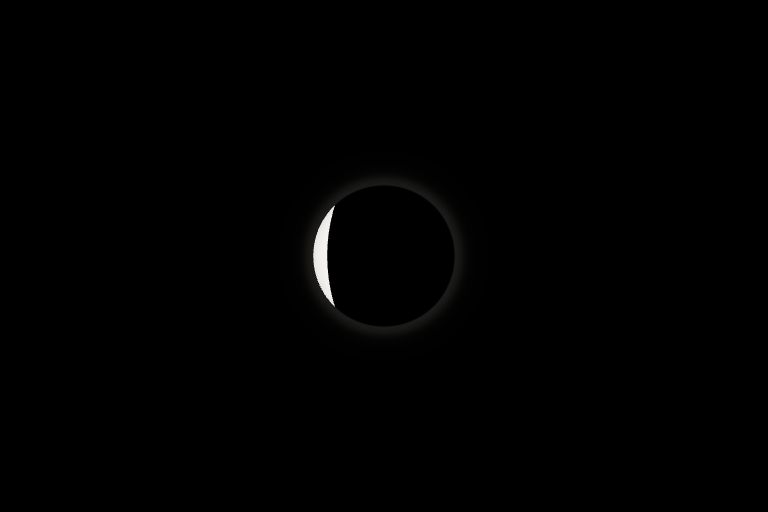
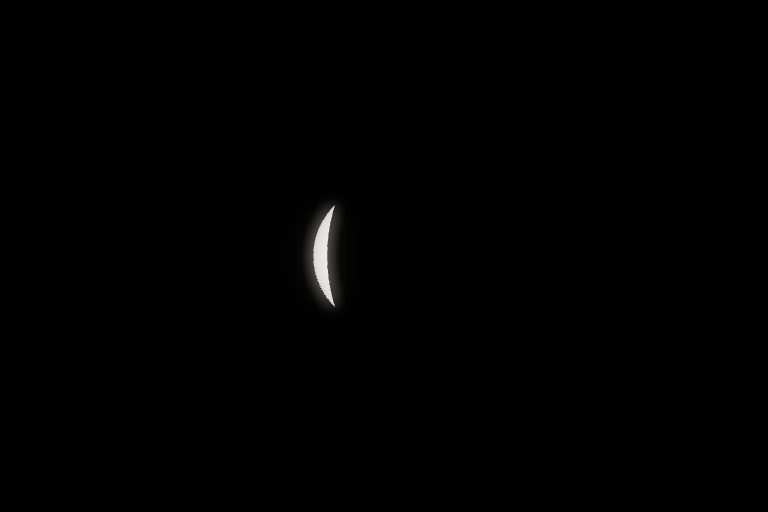
Preserve spatial solar occultation in glare and reveal close-up limb darkening

diff --git a/packages/three/src/SunGlareEffect.ts b/packages/three/src/SunGlareEffect.ts
@@ -2,13 +2,17 @@ import * as THREE from 'three';
 import type { SunVisual } from './SunVisual.js';
 import { isMesh, isLine, isPoints, isSprite } from './internal/three-typeguards.js';
 
-/** One solar-only HDR/depth pass and a bounded analytic two-scale optical halo.
+/** One solar-only HDR/depth pass and a bounded two-scale optical halo.
  * Source sampling happens after opaque occlusion and atmospheric transmission.
  * No scene overlay, star point, or generic emissive object can enter this pass.
  */
 export class SunGlareEffect {
   private readonly target: THREE.WebGLRenderTarget;
   private readonly signalTarget = new THREE.WebGLRenderTarget(1, 1, { type: THREE.HalfFloatType, depthBuffer: false });
+  private readonly blurTargets = Array.from({ length: 3 }, () =>
+    new THREE.WebGLRenderTarget(1, 1, { type: THREE.HalfFloatType, depthBuffer: false }));
+  private readonly blurScene = new THREE.Scene();
+  private readonly blurQuad: THREE.Mesh<THREE.PlaneGeometry, THREE.ShaderMaterial>;
   private readonly dark = new THREE.MeshBasicMaterial({ color: 0 });
   private readonly scene = new THREE.Scene();
   private readonly camera = new THREE.OrthographicCamera(-1, 1, 1, -1, 0, 1);
@@ -18,15 +22,37 @@ export class SunGlareEffect {
 
   constructor(private readonly renderer: THREE.WebGLRenderer) {
     this.target = new THREE.WebGLRenderTarget(1, 1, { type: THREE.HalfFloatType });
+    this.blurQuad = new THREE.Mesh(new THREE.PlaneGeometry(2, 2), new THREE.ShaderMaterial({
+      uniforms: { source: { value: this.target.texture }, stepUV: { value: new THREE.Vector2() } },
+      vertexShader: `varying vec2 uvScreen;
+        void main() { uvScreen = uv; gl_Position = vec4(position.xy, 0.0, 1.0); }`,
+      fragmentShader: `uniform sampler2D source; uniform vec2 stepUV; varying vec2 uvScreen;
+        void main() {
+          vec3 signal = vec3(0.0); float total = 0.0;
+          for (int i = -4; i <= 4; i++) {
+            float offset = float(i) * 0.5;
+            float weight = exp(-0.5 * offset * offset);
+            vec2 sampleUV = uvScreen + stepUV * offset;
+            if (all(greaterThanEqual(sampleUV, vec2(0.0))) && all(lessThanEqual(sampleUV, vec2(1.0))))
+              signal += texture2D(source, sampleUV).rgb * weight;
+            total += weight;
+          }
+          gl_FragColor = vec4(signal / total, 1.0);
+        }`,
+      depthTest: false, depthWrite: false, toneMapped: false,
+    }));
+    this.blurQuad.frustumCulled = false;
+    this.blurScene.add(this.blurQuad);
     this.quad = new THREE.Mesh(new THREE.PlaneGeometry(2, 2), new THREE.ShaderMaterial({
       uniforms: {
         source: { value: this.target.texture },
         resolveSignal: { value: false },
+        pointSignal: { value: this.signalTarget.texture },
+        compactTex: { value: this.blurTargets[1].texture },
+        tailTex: { value: this.blurTargets[2].texture },
         sourceCenter: { value: new THREE.Vector2() },
         sourceRadius: { value: new THREE.Vector2() },
-        diskRadius: { value: 1 },
         haloRadius: { value: 1 },
-        compactSigma: { value: 2 },
         unresolved: { value: 0 },
         strength: { value: 1 },
         quadCenter: { value: new THREE.Vector2() },
@@ -43,10 +69,11 @@ export class SunGlareEffect {
         }
       `,
       fragmentShader: /* glsl */ `
-        uniform sampler2D source;
+        uniform sampler2D source, pointSignal, compactTex, tailTex;
         uniform bool resolveSignal;
+        uniform vec2 quadSize;
         uniform vec2 sourceCenter, sourceRadius;
-        uniform float diskRadius, haloRadius, compactSigma, unresolved, strength;
+        uniform float haloRadius, unresolved, strength;
         varying vec2 p;
         void main() {
           // A deterministic equal-area disk quadrature. Hidden portions of the
@@ -63,17 +90,16 @@ export class SunGlareEffect {
             gl_FragColor = vec4(signal, 1.0);
             return;
           }
-          // The disk reduction is performed once per Sun into a 1x1 HDR target,
-          // rather than repeating 32 source samples at every halo fragment.
-          signal = texture2D(source, vec2(0.5)).rgb;
+          // Preserve the spatial occultation/transmission mask in both scales.
+          // Averaging a half-visible disk into one scalar creates a false full ring.
+          vec2 screenUV = sourceCenter + p * quadSize * 0.5;
+          vec3 raw = texture2D(source, screenUV).rgb;
+          float outsideSource = 1.0 - smoothstep(0.001, 0.1, max(raw.r, max(raw.g, raw.b)));
+          vec3 glare = (0.07 * texture2D(compactTex, screenUV).rgb +
+            0.007 * texture2D(tailTex, screenUV).rgb) * outsideSource * strength;
           float radius = length(p) * haloRadius;
-          float outside = max(0.0, radius - diskRadius);
-          float compact = exp(-0.5 * pow(outside / compactSigma, 2.0));
-          float tail = exp(-0.5 * pow(outside / (compactSigma * 3.0), 2.0));
-          float exterior = smoothstep(max(0.0, diskRadius - 1.0), diskRadius + 1.0, radius);
-          float point = unresolved * exp(-0.5 * radius * radius / 1.0);
-          vec3 glare = signal * (0.085 * compact + 0.008 * tail) * exterior * strength;
-          glare += signal * point;
+          float point = unresolved * exp(-0.5 * radius * radius);
+          glare += texture2D(pointSignal, vec2(0.5)).rgb * point;
           gl_FragColor = vec4(glare, 1.0);
           #include <colorspace_fragment>
         }
@@ -100,6 +126,10 @@ export class SunGlareEffect {
     if (visible.length === 0) return;
     if (this.target.width !== this.size.x || this.target.height !== this.size.y)
       this.target.setSize(this.size.x, this.size.y);
+    for (const target of this.blurTargets) {
+      const width = Math.ceil(this.size.x / 2), height = Math.ceil(this.size.y / 2);
+      if (target.width !== width || target.height !== height) target.setSize(width, height);
+    }
     const savedTarget = this.renderer.getRenderTarget();
     const savedClear = this.renderer.getClearColor(new THREE.Color());
     const savedAlpha = this.renderer.getClearAlpha();
@@ -193,18 +223,49 @@ export class SunGlareEffect {
         u.sourceRadius.value.set(sourceRadius / this.size.x, sourceRadius / this.size.y);
         u.quadCenter.value.set(this.projected.x, this.projected.y);
         u.quadSize.value.set(halo * 2 / this.size.x, halo * 2 / this.size.y);
-        u.diskRadius.value = disk;
         u.haloRadius.value = halo;
-        u.compactSigma.value = sigma;
         u.unresolved.value = 1 - visual.uniforms.resolvedWeight.value;
-        u.resolveSignal.value = true;
-        u.source.value = this.target.texture;
         this.renderer.setClearColor(0, 0);
-        this.renderer.setRenderTarget(this.signalTarget);
-        this.renderer.clear();
-        this.renderer.render(this.scene, this.camera);
-        u.resolveSignal.value = false;
-        u.source.value = this.signalTarget.texture;
+        const blur = this.blurQuad.material.uniforms;
+        const drawBlur = (target: THREE.WebGLRenderTarget) => {
+          // Clear old source positions, but shade only the Sun + its halo bounds.
+          // A small Sun should not run four filters across the entire viewport.
+          target.scissorTest = false;
+          this.renderer.setRenderTarget(target);
+          this.renderer.clear();
+          const x = u.sourceCenter.value.x * target.width;
+          const y = u.sourceCenter.value.y * target.height;
+          const padX = halo * target.width / this.size.x;
+          const padY = halo * target.height / this.size.y;
+          const left = THREE.MathUtils.clamp(Math.floor(x - padX), 0, target.width);
+          const bottom = THREE.MathUtils.clamp(Math.floor(y - padY), 0, target.height);
+          const right = THREE.MathUtils.clamp(Math.ceil(x + padX), 0, target.width);
+          const top = THREE.MathUtils.clamp(Math.ceil(y + padY), 0, target.height);
+          target.scissor.set(left, bottom, right - left, top - bottom);
+          target.scissorTest = true;
+          this.renderer.setRenderTarget(target);
+          this.renderer.render(this.blurScene, this.camera);
+        };
+        for (const [width, target] of [[sigma, this.blurTargets[1]], [sigma * 3, this.blurTargets[2]]] as const) {
+          blur.source.value = this.target.texture;
+          blur.stepUV.value.set(width / this.size.x, 0);
+          drawBlur(this.blurTargets[0]);
+          blur.source.value = this.blurTargets[0].texture;
+          blur.stepUV.value.set(0, width / this.size.y);
+          drawBlur(target);
+        }
+        // Only the unresolved point needs total flux, rather than a spatial image.
+        if (u.unresolved.value > 0) {
+          u.resolveSignal.value = true;
+          u.source.value = this.target.texture;
+          u.pointSignal.value = this.target.texture;
+          this.renderer.setRenderTarget(this.signalTarget);
+          this.renderer.clear();
+          this.renderer.render(this.scene, this.camera);
+          u.resolveSignal.value = false;
+          u.pointSignal.value = this.signalTarget.texture;
+        }
+        u.source.value = this.target.texture;
         this.renderer.setRenderTarget(savedTarget);
         this.renderer.setClearColor(savedClear, savedAlpha);
         this.renderer.render(this.scene, this.camera);
@@ -220,6 +281,9 @@ export class SunGlareEffect {
   dispose(): void {
     this.target.dispose();
     this.signalTarget.dispose();
+    for (const target of this.blurTargets) target.dispose();
+    this.blurQuad.geometry.dispose();
+    this.blurQuad.material.dispose();
     this.dark.dispose();
     this.quad.geometry.dispose();
     this.quad.material.dispose();

diff --git a/packages/three/src/SunVisual.ts b/packages/three/src/SunVisual.ts
@@ -105,7 +105,7 @@ export class SunVisual {
             // Local fixed exposure until the renderer has a scene-wide HDR path.
             // The disk is drawn after the shell with the original opaque depth,
             // so atmosphere transmission is applied once, before this response.
-            gl_FragColor = vec4((1.0 - exp(-radiance)) * resolvedWeight, 1.0);
+            gl_FragColor = vec4((1.1 * (1.0 - exp(-radiance * 0.6))) * resolvedWeight, 1.0);
             #include <colorspace_fragment>
           }
         }

diff --git a/docs/sun-rendering.md b/docs/sun-rendering.md
@@ -7,8 +7,8 @@ its catalog radius even when `minBodyPixels` is nonzero.
 The disk uses a broadband linear limb-darkening profile, `0.4 + 0.6 * mu`, and
 warm-white linear HDR radiance `(3.2, 3.08, 2.88)`. `mu` is the normal/view cosine
 at the actual sphere surface, including perspective at close range. A fixed local
-response, `1 - exp(-radiance)`, displays that signal without changing scene-wide
-exposure or tone mapping.
+response, `1.1 * (1 - exp(-0.6 * radiance))`, displays that signal without changing
+scene-wide exposure or tone mapping.
 
 `SOLAR_LAYER` draws the disk after atmosphere shells while retaining the opaque
 body depth buffer. The nearest intersected atmosphere supplies its existing RGB
@@ -19,10 +19,13 @@ numerical profile integration remains available when no LUT exists.
 `SunGlareEffect` renders only solar radiance into a half-float source target.
 Opaque meshes contribute depth and black color; transparent shells, overlays,
 lines, sprites, stars and other emissive content contribute no light. A bounded
-quad uses a 1x1 HDR reduction of 32 equal-area photosphere samples to generate a
-compact halo plus a much fainter tail. Their width is capped, so close-up solar
-views do not grow a huge halo. Partial occultation reduces the source signal;
-total occultation removes it.
+quad composites two spatial Gaussian blurs of the source at half resolution: a
+compact halo and a much fainter tail. Both retain the original occultation and
+atmospheric transmission mask, so a rising Sun cannot produce a circular halo
+around its hidden lower half. Their width is capped, so close-up solar views do
+not grow a huge halo. The response suppresses glare over the luminous disk to
+preserve its photospheric gradient. Only the unresolved point uses a 1x1 HDR
+reduction of 32 equal-area samples to estimate total visible flux.
 
 Between two and one physical pixels, the display disk smoothly transfers into a
 point spread. An expanded *offscreen optical source* preserves subpixel energy,
@@ -40,7 +43,8 @@ This is a fixed-exposure approximation, not calibrated photometry. It uses the
 first atmosphere crossed on the viewing ray; simultaneous transmission through
 multiple planetary atmospheres and eclipse corona are outside this first pass.
 The 32-sample quadrature approximates partial-disk optical flux rather than
-simulating a full camera PSF.
+simulating a full camera PSF. The two separable blurs use nine taps per axis,
+scissored to the Sun and halo bounds to keep small-source views inexpensive.
 
 ## GPU verification
 
@@ -52,7 +56,8 @@ CHROMIUM_PATH=/usr/bin/chromium node scripts/test-sun-gpu.mjs
 ```
 
 The check needs Chromium but no viewer assets or SPICE kernels. It tests limb
-darkening, neutral color, HDR values, compact glare, resolved and subpixel total
+darkening in both distant and close views, neutral color, HDR values, compact
+glare, spatial masking of partial occultation and sunrise, resolved and subpixel total
 occultation, atmospheric dimming/reddening of the disk and glare, agreement
 between LUT and numerical transmission, unresolved visibility, exclusion of
 other content, physical radius, and restoration of scene/renderer state.
@@ -73,3 +78,7 @@ large disk to expose transmission gradients and ground masking.
 ### Partial occultation
 
 ![Foreground sphere masks the disk and reduces its optical glare](images/sun-partial-eclipse.png)
+
+### Close resolved disk
+
+![Visible center-to-limb photospheric brightness gradient](images/sun-close.png)
